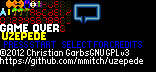
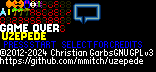
update copyright

Changed region(s): [[0.1538, 0.6667, 1.0, 0.7778]]

diff --git a/uzepede.c b/uzepede.c
@@ -1,7 +1,7 @@
 /*
  * uzepede - a centipede clone for uzebox
  *
- * Copyright (C) 2012 by  Christian Garbs <mitch@cgarbs.de>
+ * Copyright (C) 2012-2024 by  Christian Garbs <mitch@cgarbs.de>
  * licensed under the GNU GPL v3 or later
  *
  * see https://github.com/mmitch/uzepede

diff --git a/README.md b/README.md
@@ -1,6 +1,6 @@
 # uzepede - a centipede clone for uzebox
 
-Copyright (C) 2012, 2024 by  Christian Garbs <mitch@cgarbs.de>  
+Copyright (C) 2012-2024 by  Christian Garbs <mitch@cgarbs.de>  
 licensed under the GNU GPL v3 or later
 
 <https://github.com/mmitch/uzepede>
